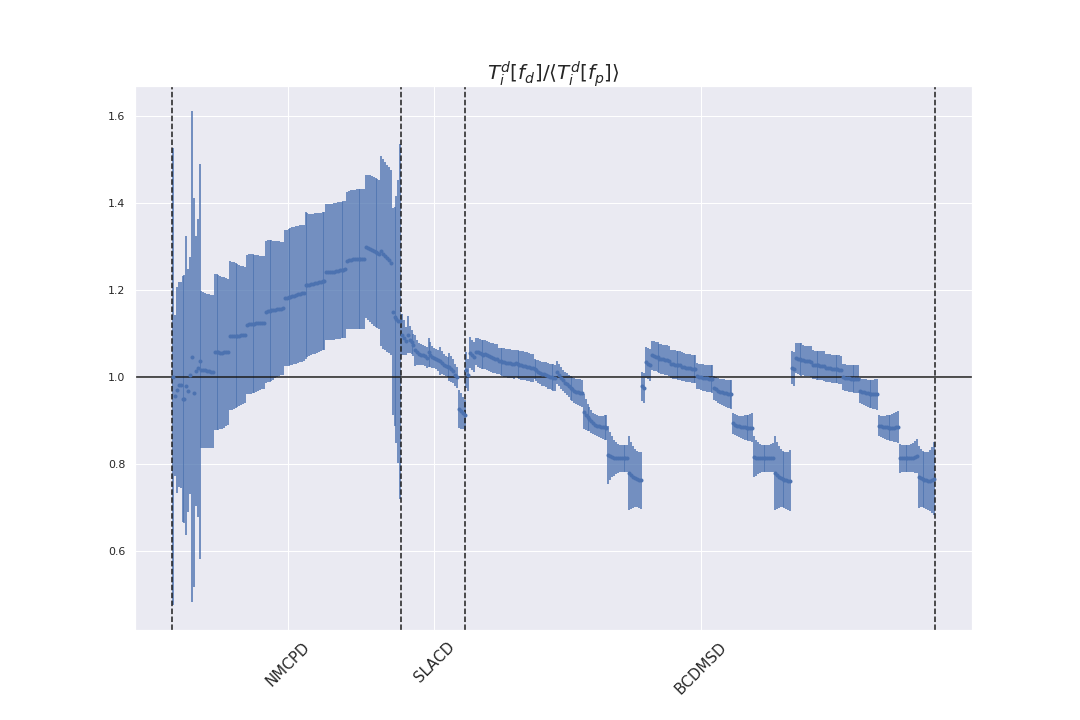
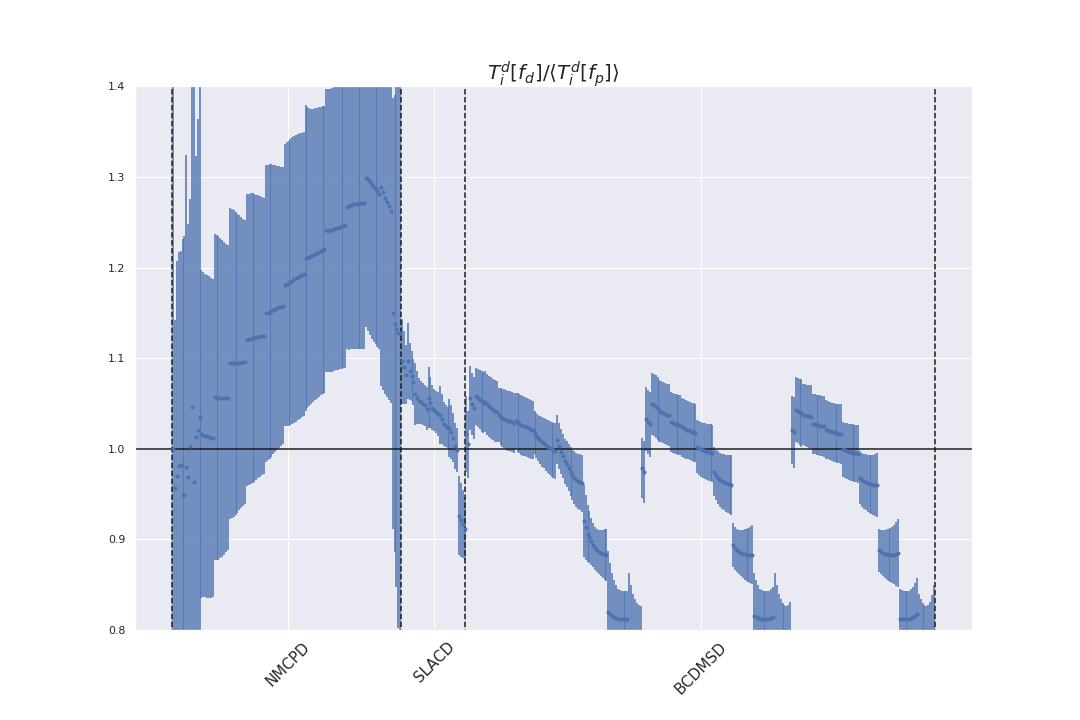
fixing axes on plots

diff --git a/src/covmat/covmat.py b/src/covmat/covmat.py
@@ -9,7 +9,7 @@ import numpy as np
 import pandas as pd
 import matplotlib.pyplot as plt
 import seaborn as sns
-from matplotlib import cm
+from matplotlib import cm, colors as mcolors
 
 sns.set()
 
@@ -34,7 +34,9 @@ def matrix_plot_labels(df):
 def matrix_plot(matrix, labeldf, descrip, label):
     fig, ax = plt.subplots(figsize=(6,6))
     matrixplot = ax.matshow(100*matrix,
-                            cmap=cm.Spectral_r)
+                            cmap=cm.Spectral_r,
+                            norm=mcolors.SymLogNorm(linthresh=0.01,
+                        linscale=10))
     cbar=fig.colorbar(matrixplot, fraction=0.046, pad=0.04)
     cbar.set_label(label="% of data", fontsize=15)
     cbar.ax.tick_params(labelsize=12)
@@ -88,6 +90,7 @@ def covmat_plots(label, fp1_table, fp2_table, fp1_covmat):
     ax2.set_ylabel("% of data", fontsize=15)
     ax2.set_title(f"Diagonal elements of covariance matrix: {label}",
                   fontsize=15)
+    ax2.set_ylim([0, 50])
     ticklocs, ticklabels, startlocs = matrix_plot_labels(fp1_table)
     plt.xticks(ticklocs, ticklabels, rotation=30, ha="right", fontsize=15)
     # Shift startlocs elements 0.5 to left so lines are between indexes

diff --git a/src/observables/observables.py b/src/observables/observables.py
@@ -55,7 +55,7 @@ def plot_observable_ratio(label, fp1_table, fp2_table):
     ax.vlines(startlocs_lines, ymin, ymax, linestyles="dashed")
     ax.margins(x=0, y=0)
     ax.set_title(r"$T_i^d[f_d] / \langle T_i^d[f_p] \rangle$", fontsize=20)
-    ax.set_ylim([0.5,1.55])
+    ax.set_ylim([0.8,1.4])
     plt.savefig(f"../../plots/observables/observable_ratio_{label}.png")
     return fig
 
